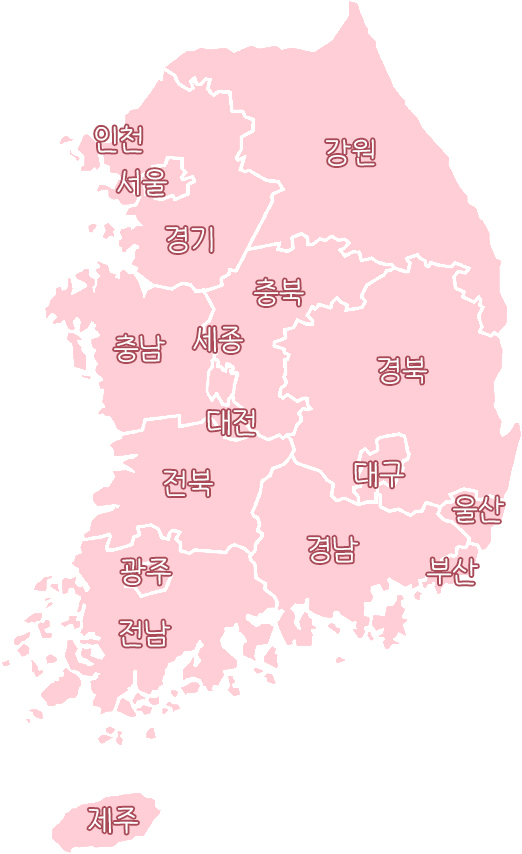
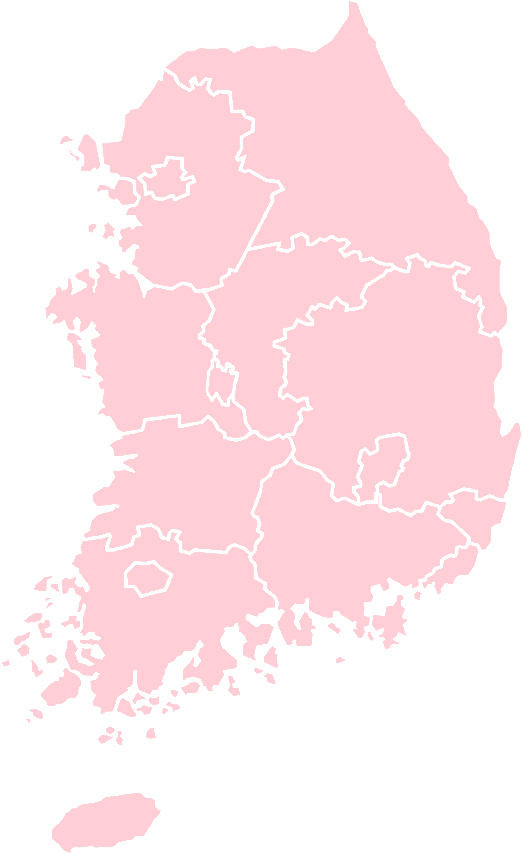
edit course.html, css and add region.js

diff --git a/jamjamapp/templates/course/course.html b/jamjamapp/templates/course/course.html
@@ -4,11 +4,10 @@
 
 {% block head %}
 <title>너와 나의 달달한 소스, JamJam</title>
-
 {% endblock %}
 {% block contents %}
 <link href="{% static 'jamjamapp/css/course.css' %}" rel="stylesheet" />
-  
+
 <div class="course-body">
 
 
@@ -23,32 +22,30 @@
     
     <div id="popup" class="hide">
       <div class="content">
-        <p>
+          <div class="map1">
 
-          <img src="{% static 'jamjamapp/img/map.jpg' %}" alt="map" usemap="#popup_map" width="522" height="854">
+            <img src="{% static 'jamjamapp/img/map.jpg' %}" alt="" width="522" height="854"
+            style="position:fixed; top: 150px; left: 400px; z-index: 0;">
 
-          <map name="popup_map" id="popup_map">
-            <area shape="rect" coords="116,168,167,198" href="course_map.html" alt="서울" target="_self" onmouseover="document.body.style.cursor='pointer';" onmouseout="document.body.style.cursor='default';">
-            <area shape="rect" coords="94,122,142,154" href="course_map.html" alt="인천" target="_self" onmouseover="document.body.style.cursor='pointer';" onmouseout="document.body.style.cursor='default';">
-            <area shape="rect" coords="162,220,216,255" href="course_map.html" alt="경기" target="_self" onmouseover="document.body.style.cursor='pointer';" onmouseout="document.body.style.cursor='default';">
-            <area shape="rect" coords="323,136,379,169" href="course_map.html" alt="강원" target="_self" onmouseover="document.body.style.cursor='pointer';" onmouseout="document.body.style.cursor='default';">
-            <area shape="rect" coords="250,273,306,308" href="course_map.html" alt="충북" target="_self" onmouseover="document.body.style.cursor='pointer';" onmouseout="document.body.style.cursor='default';">
-            <area shape="rect" coords="373,352,431,389" href="course_map.html" alt="경북" target="_self" onmouseover="document.body.style.cursor='pointer';" onmouseout="document.body.style.cursor='default';">
-            <area shape="rect" coords="352,454,405,488" href="course_map.html" alt="대구" target="_self" onmouseover="document.body.style.cursor='pointer';" onmouseout="document.body.style.cursor='default';">
-            <area shape="rect" coords="113,330,167,363" href="course_map.html" alt="충남" target="_self" onmouseover="document.body.style.cursor='pointer';" onmouseout="document.body.style.cursor='default';">
-            <area shape="rect" coords="159,463,218,500" href="course_map.html" alt="전북" target="_self" onmouseover="document.body.style.cursor='pointer';" onmouseout="document.body.style.cursor='default';">
-            <area shape="rect" coords="190,320,246,355" href="course_map.html" alt="세종" target="_self" onmouseover="document.body.style.cursor='pointer';" onmouseout="document.body.style.cursor='default';">
-            <area shape="rect" coords="204,404,260,440" href="course_map.html" alt="대전" target="_self" onmouseover="document.body.style.cursor='pointer';" onmouseout="document.body.style.cursor='default';">
-            <area shape="rect" coords="116,552,175,588" href="course_map.html" alt="광주" target="_self" onmouseover="document.body.style.cursor='pointer';" onmouseout="document.body.style.cursor='default';">
-            <area shape="rect" coords="117,614,172,650" href="course_map.html" alt="전남" target="_self" onmouseover="document.body.style.cursor='pointer';" onmouseout="document.body.style.cursor='default';">
-            <area shape="rect" coords="304,533,360,565" href="course_map.html" alt="경남" target="_self" onmouseover="document.body.style.cursor='pointer';" onmouseout="document.body.style.cursor='default';">
-            <area shape="rect" coords="451,491,507,527" href="course_map.html" alt="울산" target="_self" onmouseover="document.body.style.cursor='pointer';" onmouseout="document.body.style.cursor='default';">
-            <area shape="rect" coords="424,553,478,587" href="course_map.html" alt="부산" target="_self" onmouseover="document.body.style.cursor='pointer';" onmouseout="document.body.style.cursor='default';">
-            <area shape="rect" coords="85,802,139,835" href="course_map.html" alt="제주" target="_self" onmouseover="document.body.style.cursor='pointer';" onmouseout="document.body.style.cursor='default';">
-          </map>
+            <div class="map-child" style="position: fixed;
+            transform: translate(-50%, -50%);
+            top: 330px; left: 560px; z-index: 2;">
+            <button class="region-where" onclick="showseoul()">서울</button>
+            </div>
 
-        </p>
-        <button onclick="closePopup()">닫기</button>
+          </div>
+
+          <div class="map2">
+            <ui class="region-name" id="seoul">
+
+            </ui>
+          </div>
+
+          <div class="map3">
+            <h2 style="margin-top: 50px;">지역을</h2><h2>선택하세요!</h2>
+          </div>
+        
+        <button class="map-close" onclick="closePopup()">닫기</button>
       </div>
     </div>
 
@@ -178,5 +175,6 @@
 </div>
 
 <script type="text/javascript" src="../static/jamjamapp/js/popup.js"></script>
+<script type="text/javascript" src="../static/jamjamapp/js/region.js"></script>
 
 {% endblock %}

diff --git a/jamjamapp/static/jamjamapp/js/region.js b/jamjamapp/static/jamjamapp/js/region.js
@@ -1,0 +1,15 @@
+function showseoul() {
+    var s1 = document.getElementById("seoul")
+
+    s1.innerHTML = "<li><input type='checkbox' id='jongnogu'>종로구</li><li><input type='checkbox' id='junggu-s'>중구</li><li><input type='checkbox' id='yongsangu'>용산구</li><li><input type='checkbox' id='gwangjingu'>광진구</li><li><input type='checkbox' id='dongdaemungu'>동대문구</li><li><input type='checkbox' id='jungnanggu'>중랑구</li><li><input type='checkbox' id='seongbukgu'>성북구</li><li><input type='checkbox' id='gangbukgu'>강북구</li><li><input type='checkbox' id='dobonggu'>도봉구</li><li><input type='checkbox' id='nowongu'>노원구</li><li><input type='checkbox' id='eunpyeonggu'>은평구</li><li><input type='checkbox' id='seodaemungu'>서대문구</li><li><input type='checkbox' id='mapogu'>마포구</li><li><input type='checkbox' id='yangcheongu'>양천구</li><li><input type='checkbox' id='gangseogu'>강서구</li><li><input type='checkbox' id='gurogu'>구로구</li><li><input type='checkbox' id='geumcheongu'>금천구</li><li><input type='checkbox' id='yeongdeungpogu'>영등포구</li><li><input type='checkbox' id='dongjakgu'>동작구</li><li><input type='checkbox' id='gwanakgu'>관악구</li><li><input type='checkbox' id='seochogu'>서초구</li><li><input type='checkbox' id='gangnamgu'>강남구</li><li><input type='checkbox' id='songpagu'>송파구</li><li><input type='checkbox' id='gangdonggu'>강동구</li>";
+    
+
+    var jongnogu = document.getElementById(jongnogu);
+
+    var junggu = document.getElementById(junggu);
+    
+    var yongsangu = document.getElementById(yongsangu);
+
+    var gwangjingu = document.getElementById(gwangjingu);
+
+  }

diff --git a/jamjamapp/static/jamjamapp/css/course.css b/jamjamapp/static/jamjamapp/css/course.css
@@ -518,3 +518,73 @@ select::-ms-expand {
     border-radius: 5px;
     box-shadow: 1px 1px 3px rgba(0, 0, 0, .3);
   }
+
+  .map1 {
+    position:fixed;
+    top: 150px;
+    left: 400px;
+    z-index: 0;
+  }
+
+  .map2 {
+    position:fixed;
+    top: 150px;
+    left: 1000px;
+    z-index: 2;
+    background-color: white;
+    padding: 20px;
+  }
+
+  .map3 {
+    position:fixed;
+    width: 400px;
+    height: 800px;
+    top: 150px;
+    left: 1000px;
+    z-index: 1;
+    background-color: white;
+    padding: 10px 5px;
+  }
+
+  .region-where {
+      background-color:#ff7a91;
+      opacity: 70%;
+      font-size: 30px;
+      font-family: 'IM_Hyemin-Bold';
+      padding: 5px 5px;
+      border-radius: 25px;
+  }
+
+  .region-where:hover {
+      color: white;
+      cursor: pointer;
+  }
+
+  .map-close {
+    position:fixed;
+    top: 100px;
+    left: 1500px;
+    z-index: 0;
+    font-size: 25px;
+    font-family: 'IM_Hyemin-Bold';
+    padding: 10px 10px;
+    border-radius: 25px;
+  }
+
+  .map-close:hover {
+    color:#ff7a91;
+    cursor: pointer;
+}
+
+.region-name {
+    z-index: 4;
+    font-size: 25px;
+    left: 500px;
+    list-style-type: none;
+}
+
+input[type="checkbox"]{
+    width: 20px; /*Desired width*/ 
+    height: 20px; /*Desired height*/
+    cursor: pointer;
+}

diff --git a/jamjamapp/static/jamjamapp/css/map.css b/jamjamapp/static/jamjamapp/css/map.css
@@ -1,26 +1,17 @@
-.popup_btn a {
-    display: inline-block;
-    padding: 20px;
-    background: darkred;
-    color: #fff;
-  }
-  
-  .overlay {
-    position: fixed;
-    top: 0;
-    bottom: 0;
-    left: 0;
-    right: 0;
-    background: rgba(0, 0, 0, 0.7);
-    transition: opacity 500ms;
-    visibility: hidden;
-    opacity: 0;
-    z-index: 900;
-  }
-  
+
   .overlay:target {
     visibility: visible;
     opacity: 1;
   }
   
+  .map {
+    position: relative;
+  }
   
+  .map-child {
+    position: absolute;
+    width: auto;
+    top: 100px;
+    left: 200px;
+    z-index: 2;
+  }

diff --git a/jamjamproject/urls.py b/jamjamproject/urls.py
@@ -47,5 +47,4 @@ urlpatterns = [
     path('diary_edit/', jamjamapp.views.diary_edit, name='diary_edit'),
     path('jampay/', jamjamapp.views.jampay, name='jampay'),
     path('scrap/', jamjamapp.views.scrap, name='scrap'),
-    path('course_map/', jamjamapp.views.course_map, name='course_map'),
 ]

diff --git a/jamjamapp/views.py b/jamjamapp/views.py
@@ -66,9 +66,6 @@ def course_write(request):
 def course_edit(request):
     return render(request, 'course/course_edit.html')
 
-def course_map(request):
-    return render(request, 'course_map.html')
-
 def purchase_example(request):
     return render(request, 'mypage/purchase_example.html')
 
